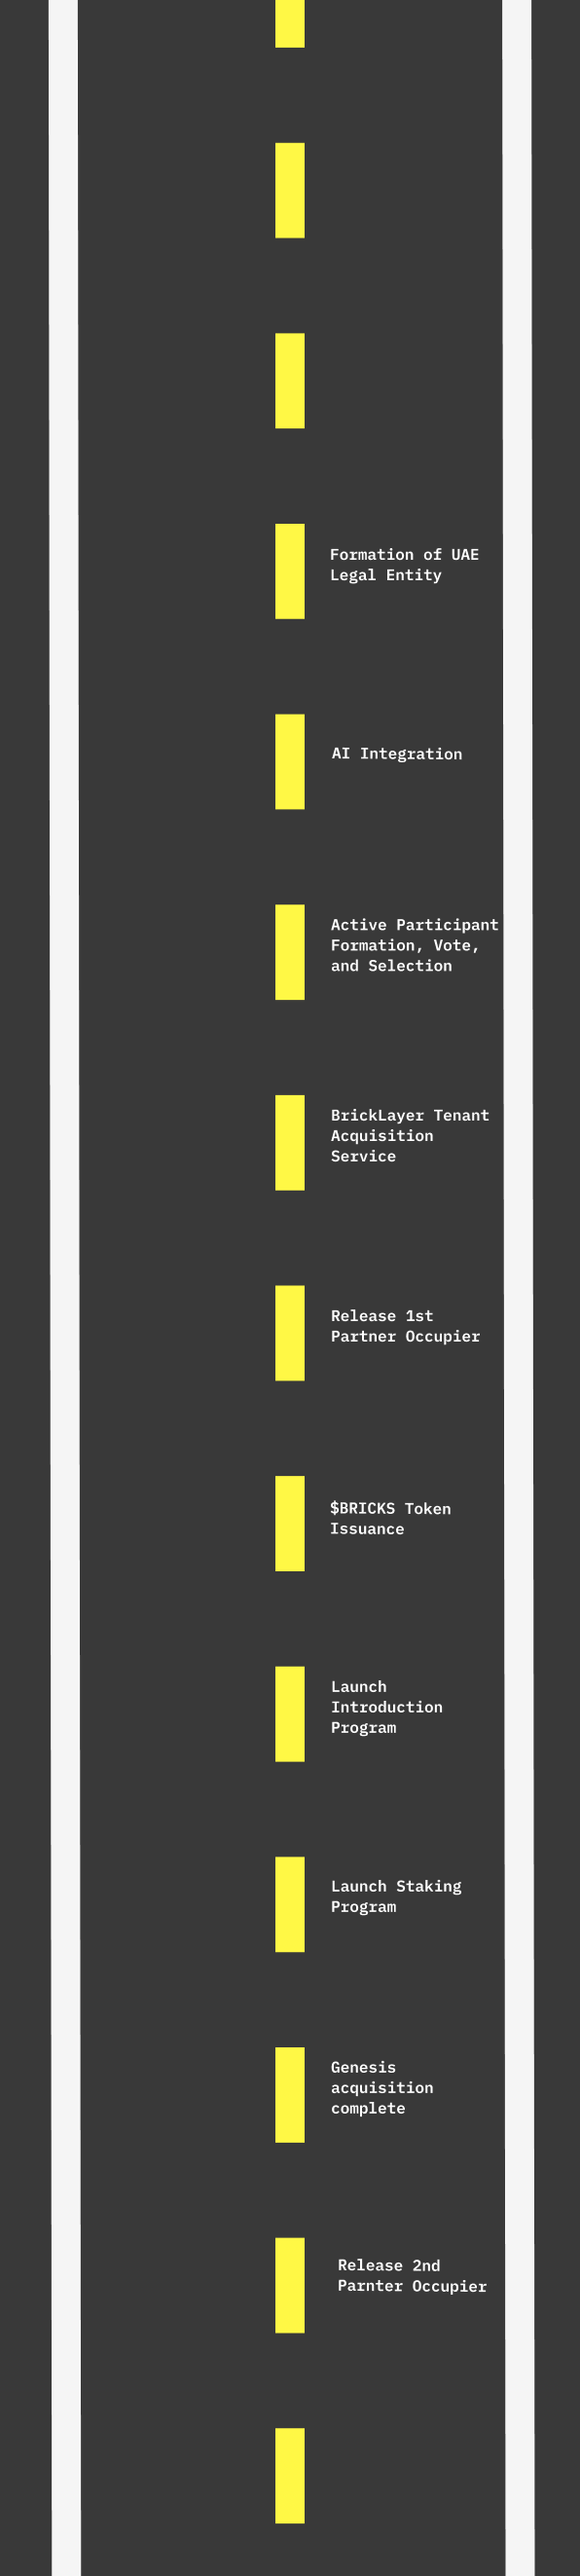
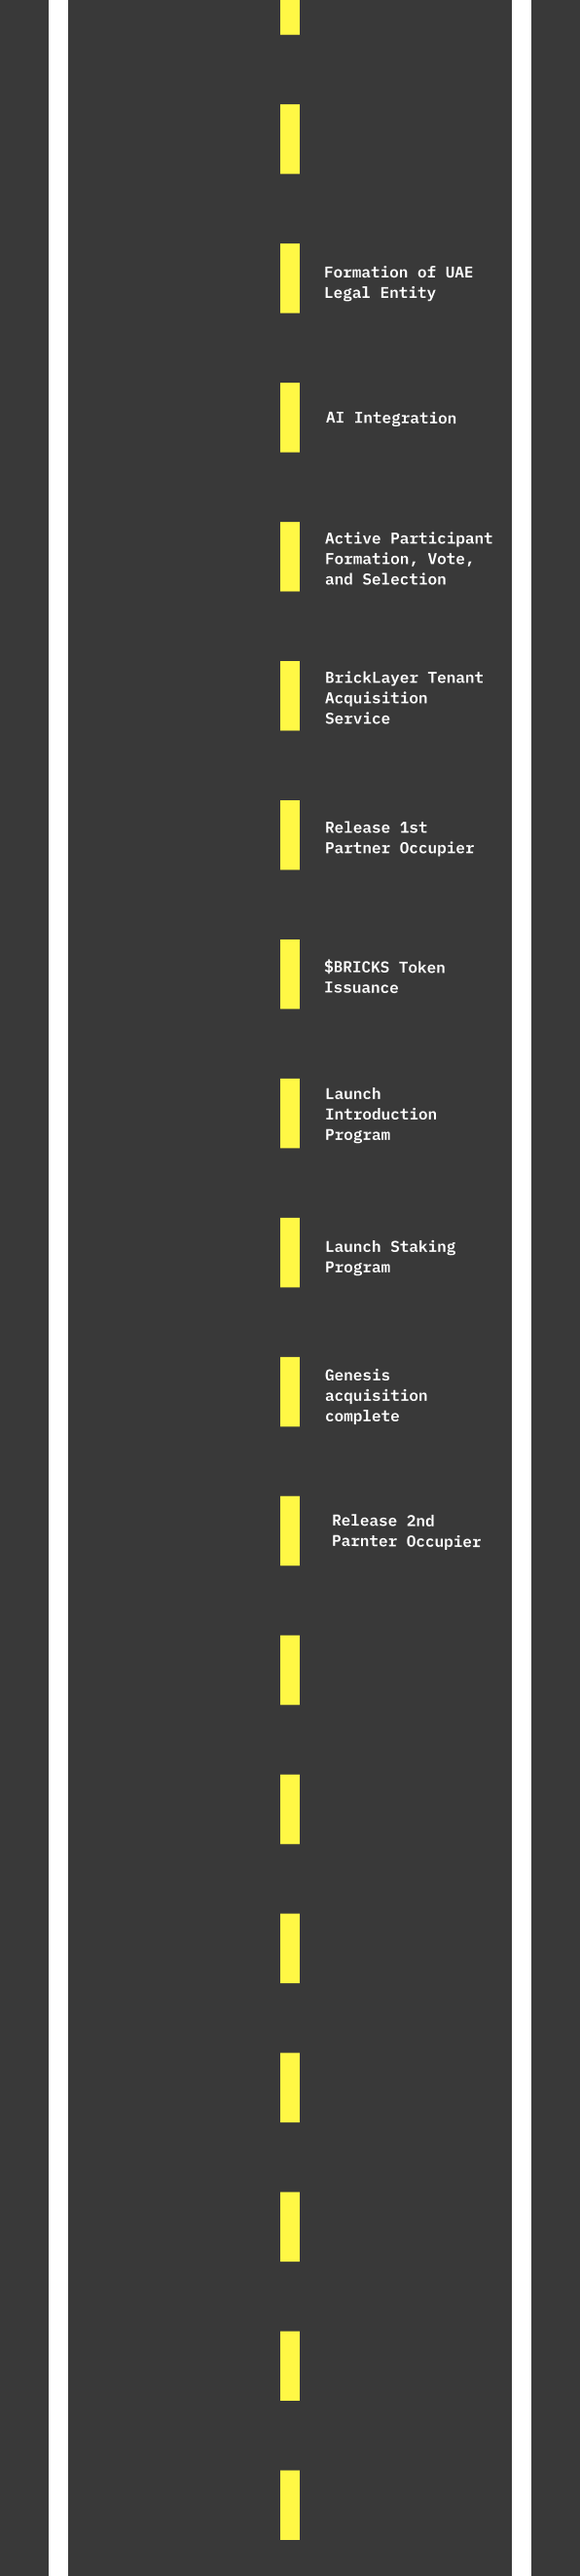
Completing treasury page

diff --git a/src/app/treasury/page.js b/src/app/treasury/page.js
@@ -1,0 +1,123 @@
+"use client";
+
+import "./treasury.scss";
+import Image from "next/image";
+
+export default function Treasury() {
+    const items = [
+        {
+            img: "/media/models/orcania.svg",
+            company: "Orcania",
+            name: "OCA",
+            price: "$15,000",
+            holdings: 100,
+        },
+        {
+            img: "/media/models/orcania.svg",
+            company: "Orcania",
+            name: "OCA",
+            price: "$15,000",
+            holdings: 100,
+        },
+        {
+            img: "/media/models/orcania.svg",
+            company: "Orcania",
+            name: "OCA",
+            price: "$15,000",
+            holdings: 100,
+        },
+        {
+            img: "/media/models/orcania.svg",
+            company: "Orcania",
+            name: "OCA",
+            price: "$15,000",
+            holdings: 100,
+        },
+        {
+            img: "/media/models/orcania.svg",
+            company: "Orcania",
+            name: "OCA",
+            price: "$15,000",
+            holdings: 100,
+        },
+        {
+            img: "/media/models/orcania.svg",
+            company: "Orcania",
+            name: "OCA",
+            price: "$15,000",
+            holdings: 100,
+        },
+        {
+            img: "/media/models/orcania.svg",
+            company: "Orcania",
+            name: "OCA",
+            price: "$15,000",
+            holdings: 100,
+        },
+        {
+            img: "/media/models/orcania.svg",
+            company: "Orcania",
+            name: "OCA",
+            price: "$15,000",
+            holdings: 100,
+        },
+        {
+            img: "/media/models/orcania.svg",
+            company: "Orcania",
+            name: "OCA",
+            price: "$15,000",
+            holdings: 100,
+        },
+
+    ];
+
+    return (
+        <div className="max-w-screen-xl flex flex-col gap-12 lg:mx-auto p-4 mt-12 pb-44">
+            <h1 className="fmb text-[12px] font-normal">
+                Total Value: <span className="fmb text-[12px] font-semibold">$150,000</span>
+            </h1>
+            <div>
+                <div className="flex justify-center items-center fmb text-[12px] font-normal">
+                    <div className="flex-1 flex justify-start items-center gap-20">
+                        <h1 className="ml-5 text-start">#</h1>
+                        <h1 className="text-start">Name</h1>
+                    </div>
+                    <div className="flex-1 flex justify-center items-center">
+                        <h1 className="text-center">Price</h1>
+                    </div>
+                    <div className="flex-1 flex justify-center items-center">
+                        <h1 className="text-end">Holdings</h1>
+                    </div>
+                </div>
+                <hr
+                    className="my-8"
+                    style={{ strokeWidth: "1px", stroke: "rgba(255, 255, 255, 0.50)" }}
+                />
+                <div className="flex flex-col gap-10">
+                    {items.map((item, index) => (
+                        <div
+                            key={index}
+                            className="flex justify-center items-center bg-[#E78A74] py-5 text-[14px] font-semibold"
+                            style={{borderRadius:'5px', background:'rgba(231, 138, 116, 0.15)'}}
+                        >
+                            <div className="flex-1 flex justify-start items-center gap-20">
+                                <h1 className="ml-5 text-start">{index + 1}</h1>
+                                <div className="flex gap-2 justify-center items-center">
+                                    <Image alt="" width={25} height={25} src={item.img} />
+                                    <h1 className="font-semibold">{item.company}</h1>
+                                    <h1 className="text-[#E26E5D] font-semibold">{item.name}</h1>
+                                </div>
+                            </div>
+                            <div className="flex-1 flex justify-center items-center">
+                                <h1 className="text-center">{item.price}</h1>
+                            </div>
+                            <div className="flex-1 flex justify-center items-center">
+                                <h1 className="text-end">{item.holdings}</h1>
+                            </div>
+                        </div>
+                    ))}
+                </div>
+            </div>
+        </div>
+    );
+}

diff --git a/src/app/Ap/page.js b/src/app/Ap/page.js
@@ -109,37 +109,39 @@ export default function Ap() {
                                     in and reviewed annually by the DAO.
                                 </p>
                             </div>
-                            <div className="grid xl:grid-cols-3 md:grid-cols-2 grid-cols-1 gap-16 m-5 pb-20">
-                                {available.map((item) => {
-                                    return (
-                                        // Render content for "Available" button
-                                        // ...
-                                        <div
+                            <div className="grid xl:grid-cols-3 md:grid-cols-2 grid-cols-1 gap-16 m-5 pb-20 ">
+                                     {available.map((item) => {
+                                        return (
+                                            // Render content for "Available" button
+                                            // ...
+                                            <div
                                             key={item.id}
-                                            className="flex flex-row gap-2 justify-start items-center bg-gray-200 hover:bg-opacity-40 bg-opacity-20 px-6 py-4 "
+                                            className={`flex flex-row gap-2 justify-start items-center bg-gray-200 hover:bg-opacity-40 bg-opacity-20 px-6 py-4 ${
+                                                item.id === 16 ? 'centering classes' : ''
+                                            }`}
                                         >
-                                            <div className="flex items-start justify-end h-full mb-1 ">
-                                                <Link href={item.profileLink}>
-                                                    <Image
-                                                        src={item.img}
-                                                        alt=""
-                                                        width={24}
-                                                        height={24}
-                                                    />
-                                                </Link>
+                                                <div className="flex items-start justify-end h-full mb-1 ">
+                                                    <Link href={item.profileLink}>
+                                                        <Image
+                                                            src={item.img}
+                                                            alt=""
+                                                            width={24}
+                                                            height={24}
+                                                        />
+                                                    </Link>
+                                                </div>
+                                                <div className="flex flex-col items-start">
+                                                    <h1 className="fmb text-[12px] font-normal">
+                                                        {item.name}
+                                                    </h1>
+                                                    <h1 className="text-[#FFD3C8] text-[12px] font-semibold">
+                                                        {item.title}
+                                                    </h1>
+                                                </div>
                                             </div>
-                                            <div className="flex flex-col items-start">
-                                                <h1 className="fmb text-[12px] font-normal">
-                                                    {item.name}
-                                                </h1>
-                                                <h1 className="text-[#FFD3C8] text-[12px] font-semibold">
-                                                    {item.title}
-                                                </h1>
-                                            </div>
-                                        </div>
-                                    );
-                                })}
-                            </div>
+                                        );
+                                    })}
+                                </div>
                         </div>
                     )}
                 </div>

diff --git a/src/app/roadmap/page.js b/src/app/roadmap/page.js
@@ -114,10 +114,10 @@ export default function useRoadmap() {
                 } ${activeYear === 3 ? "bg-road3" : ""} overflow-x-hidden min-[500px]:pb-0 pb-72`}
             >
                 <div className="">
-                    <div className="roadmap-title fmb text-5xl sm:text-7xl text-center text-shadow sm:mt-20 mt-[70px] z-10">
+                    <div className="roadmap-title fmb text-5xl sm:text-7xl text-center text-shadow sm:mt-12 mt-[50px] z-10">
                         ROADMAP
                     </div>
-                    <div className="sm:mt-[150px] mt-[125px]">
+                    <div className="sm:mt-[80px] mt-[125px]">
                         <div className="flex justify-center md:gap-6 gap-4 py-4 mx-5 text-sm md:text-xs ">
                             <button
                                 className={`bg-transparent hover:bg-[#E26E5D] border-3 border-white hover:border-[#E26E5D] fmb p-2 w-32 text-sm sm:w-auto sm:text-base ${
